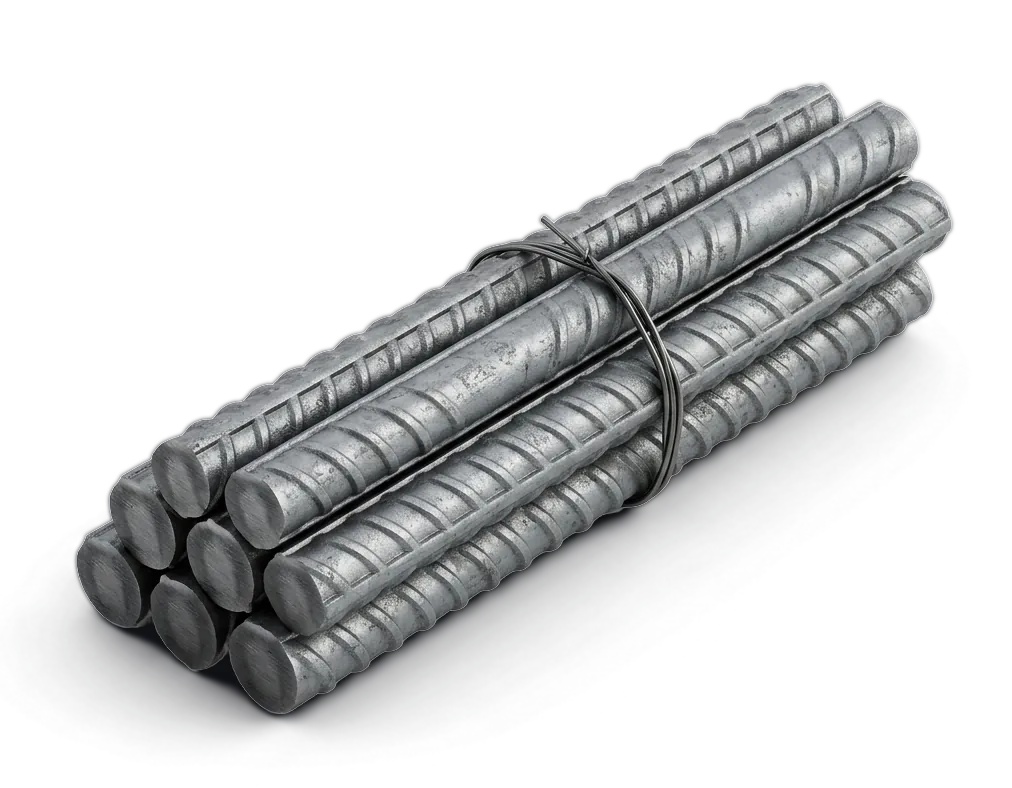
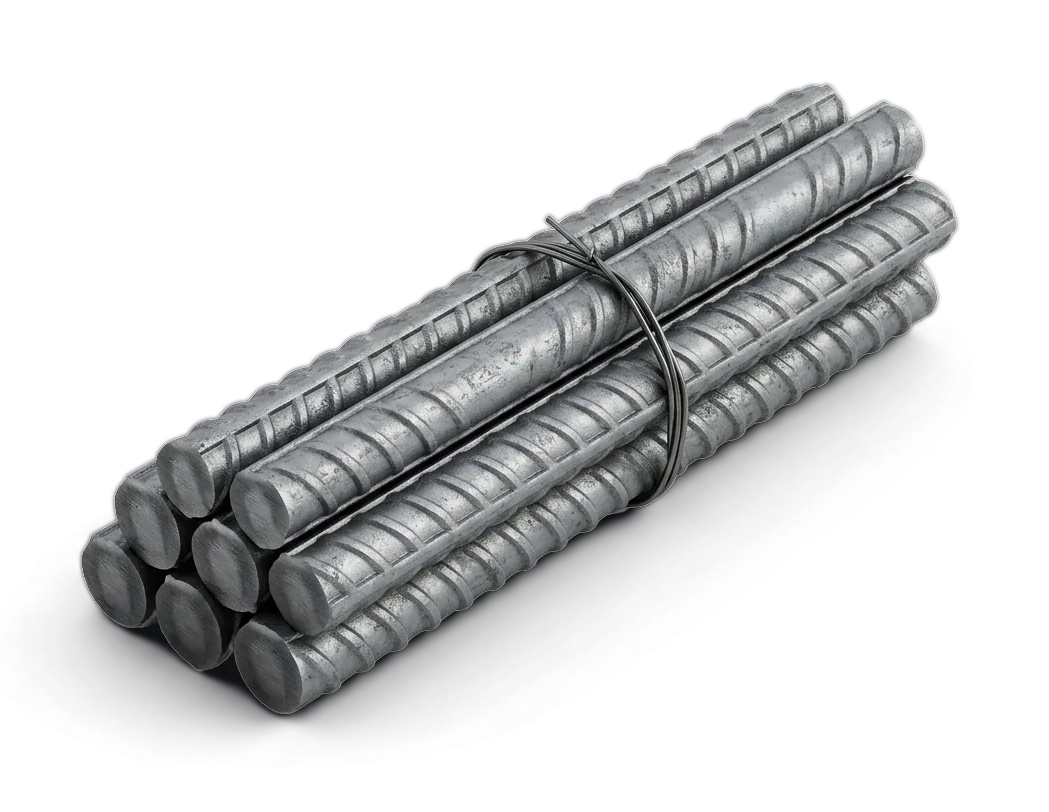
Картинки чата 4: спецификация, фура, 5 конструкций, новая балка — фон вырезан
Claude-Session: https://claude.ai/code/session_01Rceo4pJDQQ3wHn69XkP16p

Changed region(s): [[0.0613, 0.0914, 0.9496, 0.9442]]

diff --git a/components/home/CatalogTiles.tsx b/components/home/CatalogTiles.tsx
@@ -65,8 +65,8 @@ function CategoryTile({ category }: { category: Category }) {
         <img
           src={asset(`/catalog/${category.slug}.webp`)}
           alt=""
-          width={1012}
-          height={788}
+          width={1049}
+          height={812}
           loading="lazy"
           decoding="async"
         />

diff --git a/scripts/cutout-renders.py b/scripts/cutout-renders.py
@@ -12,8 +12,9 @@
 """
 from pathlib import Path
 
-from PIL import Image, ImageChops, ImageFilter
-from rembg import new_session, remove
+from PIL import Image
+
+from cutout_lib import cutout
 
 SRC = Path("docs/assets-src/renders")
 OUT = Path("public/catalog")
@@ -21,28 +22,8 @@ OUT_WIDTH = 1200
 MARGIN = 0.05  # поле вокруг общей рамки, доля ширины
 # Сетка шире остальных — в общую рамку не входит, её края просто обрезаются плиткой.
 FRAME_EXCLUDE = {"setka"}
-SHADOW_GAIN = 2.2  # усиление тени (фон почти белый, затемнение слабое)
 
-session = new_session("isnet-general-use")
-layers = {}
-
-for path in sorted(SRC.glob("*.jpg")):
-    rgb = Image.open(path).convert("RGB")
-    mask = remove(rgb, session=session, only_mask=True).convert("L")
-    # чуть подрезаем ореол по краю маски
-    mask = mask.point(lambda v: 0 if v < 24 else min(255, int((v - 24) * 255 / 200)))
-
-    lum = rgb.convert("L")
-    shadow = lum.point(lambda v: max(0, min(255, int((250 - v) * SHADOW_GAIN))))
-    shadow = shadow.filter(ImageFilter.GaussianBlur(2))
-    shadow = ImageChops.multiply(shadow, ImageChops.invert(mask))
-
-    obj = rgb.copy()
-    obj.putalpha(mask)
-    black = Image.new("RGBA", rgb.size, (14, 16, 19, 0))
-    black.putalpha(shadow)
-    black.alpha_composite(obj)
-    layers[path.stem] = (black, mask.getbbox())
+layers = {path.stem: cutout(Image.open(path).convert("RGB")) for path in sorted(SRC.glob("*.jpg"))}
 
 boxes = [b for slug, (_, b) in layers.items() if slug not in FRAME_EXCLUDE]
 w, h = next(iter(layers.values()))[0].size

diff --git a/scripts/cutout-objects.py b/scripts/cutout-objects.py
@@ -1,0 +1,32 @@
+"""Вырезает фон у одиночных 3D-рендеров (фура, конструкции, спецификация) и кадрирует каждый по объекту.
+
+    python3 scripts/cutout-objects.py
+
+Для плитки каталога (одна общая рамка на все) — scripts/cutout-renders.py.
+"""
+from pathlib import Path
+
+from PIL import Image
+
+from cutout_lib import cutout
+
+JOBS = [  # (папка исходников, папка результата, ширина WebP)
+    ("docs/assets-src/cta", "public/cta", 1000),
+    ("docs/assets-src/truck", "public/truck", 1600),
+    ("docs/assets-src/constructions", "public/constructions", 1200),
+]
+MARGIN = 0.04  # поле вокруг объекта, доля ширины
+
+for src, dst, width in JOBS:
+    Path(dst).mkdir(parents=True, exist_ok=True)
+    for path in sorted(Path(src).glob("*.jpg")):
+        img, (x0, y0, x1, y1) = cutout(Image.open(path).convert("RGB"))
+        pad = int(img.width * MARGIN)
+        # тень лежит ниже объекта — снизу поле чуть больше
+        box = (max(0, x0 - pad), max(0, y0 - pad), min(img.width, x1 + pad), min(img.height, y1 + int(pad * 1.5)))
+        crop = img.crop(box)
+        if crop.width > width:
+            crop = crop.resize((width, round(crop.height * width / crop.width)), Image.LANCZOS)
+        out = Path(dst) / f"{path.stem}.webp"
+        crop.save(out, "WEBP", quality=82, method=6)
+        print(out, crop.size, f"{out.stat().st_size // 1024} КБ")

diff --git a/scripts/cutout_lib.py b/scripts/cutout_lib.py
@@ -1,0 +1,28 @@
+"""Общая функция вырезки фона для рендеров на белом фоне (rembg + мягкая тень)."""
+from PIL import Image, ImageChops, ImageFilter
+from rembg import new_session, remove
+
+SHADOW_GAIN = 2.2  # усиление тени (фон почти белый, затемнение слабое)
+_session = None
+
+
+def cutout(rgb: Image.Image) -> tuple[Image.Image, tuple[int, int, int, int]]:
+    """Возвращает RGBA (объект + полупрозрачная тень) и рамку объекта без тени."""
+    global _session
+    if _session is None:
+        _session = new_session("isnet-general-use")
+    mask = remove(rgb, session=_session, only_mask=True).convert("L")
+    # чуть подрезаем ореол по краю маски
+    mask = mask.point(lambda v: 0 if v < 24 else min(255, int((v - 24) * 255 / 200)))
+
+    # тень: затемнение белого фона вне маски → полупрозрачный чёрный слой
+    shadow = rgb.convert("L").point(lambda v: max(0, min(255, int((250 - v) * SHADOW_GAIN))))
+    shadow = shadow.filter(ImageFilter.GaussianBlur(2))
+    shadow = ImageChops.multiply(shadow, ImageChops.invert(mask))
+
+    obj = rgb.copy()
+    obj.putalpha(mask)
+    out = Image.new("RGBA", rgb.size, (14, 16, 19, 0))
+    out.putalpha(shadow)
+    out.alpha_composite(obj)
+    return out, mask.getbbox()

diff --git a/docs/PROGRESS.md b/docs/PROGRESS.md
@@ -138,7 +138,10 @@
 
 Следующий чат — **4 (главная, сокращённо)** — пользователь просит экономить лимиты, порядок изменён: блоки главной раньше данных.
 1. Плитка «Нет нужной позиции?»: вместо сечения — рендер стопки спецификаций (`spec.png`); меньше отступы между заголовком, текстом и кнопкой (кнопка сразу под текстом, а не прижата к низу).
-2. Фура-разделитель (реф. 04) и раскрывающиеся панели «Металлоконструкции» 01–05 (реф. 05). Картинки — `docs/BRIEF-assets.md` → «чат 4», ждём от пользователя.
+2. Фура-разделитель (реф. 04) и раскрывающиеся панели «Металлоконструкции» 01–05 (реф. 05).
+
+**Картинки чата 4 пришли и готовы (01.11.2026):** исходники — `docs/assets-src/{cta,truck,constructions}/`, вырезанные WebP — `public/cta/spec.webp`, `public/truck/truck.webp`, `public/constructions/{fermy,karkas,lestnica,ograzhdenie,zakladnye}.webp` (кадр по объекту, скрипт `scripts/cutout-objects.py`). `balka` перегенерирована и уже стоит в каталоге. Можно сразу верстать.
+Заметки: «закладные» похожи на столики (анкеры как ножки) — подойдёт для панели, но при желании перегенерировать с анкерами вниз из-под пластины без раскосов.
 
 Новый план (сжатый):
 | Чат | Что |
